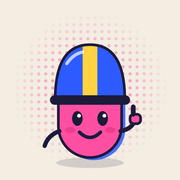
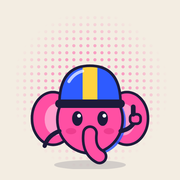
Replace mascot with Ellie the elephant
Claude-Session: https://claude.ai/code/session_01G79NAC6RiZUqHQqi2hMpF2

Changed region(s): [[0.1667, 0.2222, 0.8333, 0.9444]]

diff --git a/rally/index.html b/rally/index.html
@@ -264,7 +264,7 @@ function pickText(){const inPack=id=>S.pack==='mix'||id.startsWith(S.pack+':');l
   const id=pick(list);S.recent=[id,...S.recent].slice(0,20);const[k,i]=id.split(':');let t=PACKS[k][+i];
   if(S.easy)t=t.toLowerCase().replace(/[^a-z ]/g,'').replace(/\s+/g,' ').trim();return t}
 
-// ---------- Thumbo, the mascot ----------
+// ---------- Ellie, the mascot ----------
 const HELMETS=[['Blue','#2E5BFF',0],['Pink','#FF4FA3',1],['Sun','#FFD23F',3],['Mint','#00A95C',5],['Tomato','#FF5A36',8],['Grape','#7B4DFF',12],['Ink','#1D1B3A',20],['Chrome','#C9CCD6',30]];
 const helmetColor=()=>HELMETS[S.color][1];
 function thumbo(mood='happy',hc=helmetColor()){
@@ -281,24 +281,27 @@ function thumbo(mood='happy',hc=helmetColor()){
     up:`<path d="M31 100 Q18 90 16 76" fill="none" stroke="${I}" stroke-width="4" stroke-linecap="round"/><path d="M89 100 Q102 90 104 76" fill="none" stroke="${I}" stroke-width="4" stroke-linecap="round"/><circle cx="16" cy="74" r="4.5" fill="var(--pink)" stroke="${I}" stroke-width="2.5"/><circle cx="104" cy="74" r="4.5" fill="var(--pink)" stroke="${I}" stroke-width="2.5"/>`,
     down:`<path d="M31 106 Q25 118 25 126" fill="none" stroke="${I}" stroke-width="4" stroke-linecap="round"/><path d="M89 106 Q95 118 95 126" fill="none" stroke="${I}" stroke-width="4" stroke-linecap="round"/>`,
     cross:`<path d="M33 112 Q60 124 86 106" fill="none" stroke="${I}" stroke-width="4" stroke-linecap="round"/><path d="M87 112 Q60 124 34 106" fill="none" stroke="${I}" stroke-width="4" stroke-linecap="round"/>`}[F.arms];
-  return `<svg viewBox="0 0 120 140"><defs><clipPath id="hc"><path d="M27 74 Q27 22 60 22 Q93 22 93 74Z"/></clipPath></defs>
-  <ellipse cx="60" cy="134" rx="32" ry="5" fill="${I}" opacity=".15"/>
-  <rect x="33.5" y="35.5" width="60" height="96" rx="30" fill="var(--blue)" opacity=".85"/>
-  <rect x="30" y="33" width="60" height="96" rx="30" fill="var(--pink)" stroke="${I}" stroke-width="2.5"/>
-  <ellipse cx="41" cy="103" rx="5" ry="3" fill="#E0307F" opacity=".55"/><ellipse cx="79" cy="103" rx="5" ry="3" fill="#E0307F" opacity=".55"/>
-  ${F.eyes}${F.mouth}${A}
-  <path d="M27 74 Q27 22 60 22 Q93 22 93 74Z" fill="${hc}"/>
-  <rect x="53" y="20" width="14" height="56" fill="${stripe}" clip-path="url(#hc)"/>
-  <path d="M27 74 Q27 22 60 22 Q93 22 93 74Z" fill="none" stroke="${I}" stroke-width="2.5"/>
-  <path d="M38 40 Q44 31 53 29" fill="none" stroke="#fff" stroke-width="3" stroke-linecap="round" opacity=".7"/>
-  <rect x="22" y="70" width="76" height="9" rx="4.5" fill="${I}"/>
+  const T={cheer:'M60 106 Q60 120 72 116 Q81 112 80 100',shock:'M60 106 Q60 120 72 116 Q81 112 80 100',sad:'M60 106 Q61 122 58 134'}[mood]||'M60 106 Q58 122 69 128';
+  const H='M31 78 Q31 42 60 42 Q89 42 89 78Z';
+  return `<svg viewBox="0 0 120 140"><defs><clipPath id="hc"><path d="${H}"/></clipPath></defs>
+  <ellipse cx="60" cy="136" rx="34" ry="4.5" fill="${I}" opacity=".15"/>
+  <ellipse cx="25" cy="92" rx="20" ry="25" fill="var(--pink)" stroke="${I}" stroke-width="2.5"/><ellipse cx="28" cy="93" rx="11" ry="15" fill="#FF9CCB"/>
+  <ellipse cx="95" cy="92" rx="20" ry="25" fill="var(--pink)" stroke="${I}" stroke-width="2.5"/><ellipse cx="92" cy="93" rx="11" ry="15" fill="#FF9CCB"/>
+  <ellipse cx="63" cy="95" rx="31" ry="32" fill="var(--blue)" opacity=".85"/>
+  <ellipse cx="60" cy="93" rx="31" ry="32" fill="var(--pink)" stroke="${I}" stroke-width="2.5"/>
+  <ellipse cx="42" cy="104" rx="5" ry="3" fill="#E0307F" opacity=".55"/><ellipse cx="78" cy="104" rx="5" ry="3" fill="#E0307F" opacity=".55"/>
+  ${F.eyes}${A}
+  <path d="${T}" fill="none" stroke="${I}" stroke-width="15" stroke-linecap="round"/><path d="${T}" fill="none" stroke="var(--pink)" stroke-width="10" stroke-linecap="round"/>
+  <path d="${H}" fill="${hc}"/><rect x="53" y="40" width="14" height="40" fill="${stripe}" clip-path="url(#hc)"/>
+  <path d="${H}" fill="none" stroke="${I}" stroke-width="2.5"/><path d="M40 57 Q45 49 53 47" fill="none" stroke="#fff" stroke-width="3" stroke-linecap="round" opacity=".7"/>
+  <rect x="27" y="74" width="66" height="8" rx="4" fill="${I}"/>
   </svg>`}
-const mini=mood=>thumbo(mood).replace('viewBox="0 0 120 140"','viewBox="18 16 84 104"');
+const mini=mood=>thumbo(mood).replace('viewBox="0 0 120 140"','viewBox="2 38 116 100"');
 
 // ---------- voice ----------
 const LINES={
   idle:["Thumbs warmed up? Let's ride.","Grandma Gigi has been practicing. Just saying.","One race. Then another. Then another.","I believe in your thumbs. Mostly.","The bots are talking trash about you.","Hydrate. Stretch. Destroy."],
-  first:["Hi, I'm Thumbo. Let's see what those thumbs can do."],
+  first:["Hi, I'm Ellie. Let's see what those thumbs can do."],
   risk:["Your {n} day streak is sweating. One race saves it.","Don't let the {n} day streak die like this."],
   done:["Daily goal done. Okay, show off.","Three races today. Your thumbs deserve a nap."],
   p1:["First place! Your thumbs should go pro.","Did you even blink? Unreal.","You ARE the podium.","Bots in shambles. Respect."],

diff --git a/rally/sw.js b/rally/sw.js
@@ -1,4 +1,4 @@
-const CACHE='rally-v2';
+const CACHE='rally-v3';
 const FILES=['./','./index.html','./manifest.json','./icon-180.png','./icon-192.png','./icon-512.png','./fonts/bricolage.woff2','./fonts/dmmono-500.woff2'];
 self.addEventListener('install',e=>{e.waitUntil(caches.open(CACHE).then(c=>c.addAll(FILES)));self.skipWaiting()});
 self.addEventListener('activate',e=>{e.waitUntil(caches.keys().then(k=>Promise.all(k.filter(x=>x!==CACHE).map(x=>caches.delete(x)))).then(()=>self.clients.claim()))});
